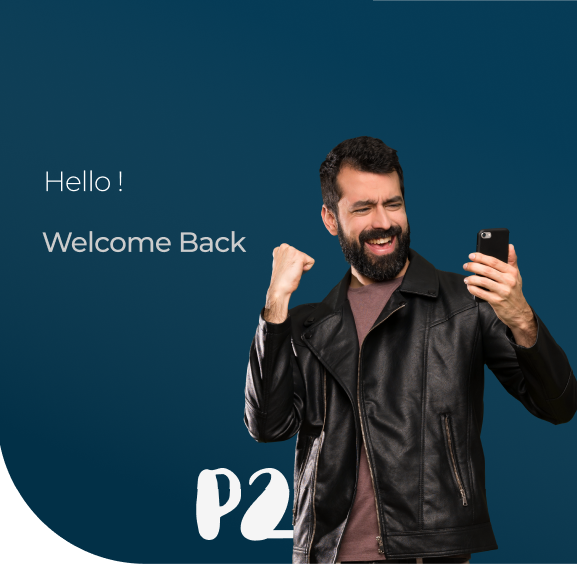
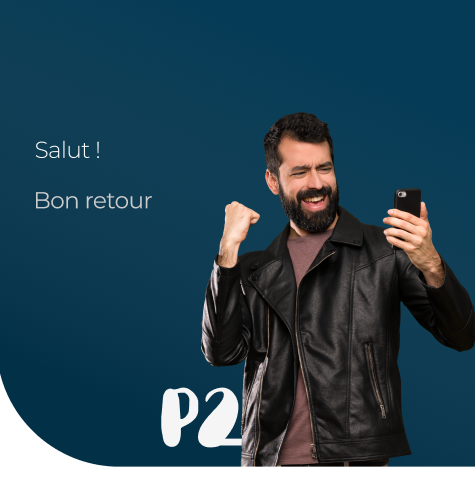
init

diff --git a/mobile/app/(auth)/signup.jsx b/mobile/app/(auth)/signup.jsx
@@ -35,10 +35,10 @@ export default function Signup() {
       behavior={Platform.OS === 'ios' ? 'padding' : 'height'}
     >
     <ScrollView
-     style={styles.container}               // style pour le conteneur ScrollView
-     contentContainerStyle={{               // style pour le contenu scrollable à l'intérieur
-     justifyContent: 'center',            // tu mets ici justifyContent
-     flexGrow: 1                         // important pour que ça prenne toute la hauteur dispo
+     style={styles.container}               
+     contentContainerStyle={{              
+     justifyContent: 'center',            
+     flexGrow: 1                         
     }}
     >
 
@@ -62,14 +62,14 @@ export default function Signup() {
 
     <View style={styles.infoBox}>
       <Text style={styles.infoText}>
-        To create an influencer account, you will be required to connect your Instagram account.
+        Pour créer un compte influenceur, vous devrez connecter votre compte Instagram.
       </Text>
     </View>
 
     <TouchableOpacity onPress={() => router.back()}>
     <Text style={styles.loginText}>
-    Already have an account ? 
-    <Text style={styles.loginLink}>Login</Text>
+    Vous avez déjà un compte ? 
+    <Text style={styles.loginLink}>Se connecter</Text>
     
   </Text>
 </TouchableOpacity>
@@ -84,7 +84,7 @@ export default function Signup() {
               resizeMode="contain"
             />
            
-             <Text style={styles.subtitle}>Join our exclusive community!</Text>
+             <Text style={styles.subtitle}>Rejoignez notre communauté exclusive!</Text>
             <View style= {styles.card}>
              <View style={styles.header}>
                
@@ -93,7 +93,7 @@ export default function Signup() {
               <View style={styles.formContainer}>
                 {/* FIRSTNAME INPUT */}
                 <View style={styles.inputGroup}>
-                  <Text style={styles.label}>First Name</Text>
+                  <Text style={styles.label}>Prénom</Text>
                   <View style={styles.inputContainer}>
                     <TextInput
                       style={styles.input}
@@ -108,7 +108,7 @@ export default function Signup() {
 
                 {/* LASTNAME INPUT */}
                 <View style={styles.inputGroup}>
-                  <Text style={styles.label}>Last Name</Text>
+                  <Text style={styles.label}>Nom</Text>
                   <View style={styles.inputContainer}>
                     <TextInput
                       style={styles.input}
@@ -123,7 +123,7 @@ export default function Signup() {
 
                 {/* USERNAME INPUT */}
                 <View style={styles.inputGroup}>
-                  <Text style={styles.label}>Username</Text>
+                  <Text style={styles.label}>Identifiant</Text>
                   <View style={styles.inputContainer}>
                     <Ionicons
                       name="person-outline"
@@ -166,7 +166,7 @@ export default function Signup() {
 
                 {/* PHONE NUMBER INPUT */}
                 <View style={styles.inputGroup}>
-                  <Text style={styles.label}>Phone Number</Text>
+                  <Text style={styles.label}>Numéro de téléphone</Text>
                   <View style={styles.inputContainer}>
                     <Ionicons
                       name="call-outline"
@@ -187,7 +187,7 @@ export default function Signup() {
 
                 {/* PASSWORD INPUT */}
                 <View style={styles.inputGroup}>
-                  <Text style={styles.label}>Password</Text>
+                  <Text style={styles.label}>Mot de passe</Text>
                   <View style={styles.inputContainer}>
                     <Ionicons
                       name="lock-closed-outline"
@@ -225,15 +225,15 @@ export default function Signup() {
                   {isLoading ? (
                     <ActivityIndicator color="#fff" />
                   ) : (
-                    <Text style={styles.buttonText}>Sign Up</Text>
+                    <Text style={styles.buttonText}>S’inscrire</Text>
                   )}
                 </TouchableOpacity>
 
                 {/* Footer */}
                 <View style={styles.footer}>
-                  <Text style={styles.footerText}>Already have an account?</Text>
+                  <Text style={styles.footerText}>Vous avez déjà un compte?</Text>
                   <TouchableOpacity onPress={() => router.back()}>
-                    <Text style={styles.link}>Login</Text>
+                    <Text style={styles.link}>Se connecter</Text>
                   </TouchableOpacity>
                 </View>
             </View> 

diff --git a/mobile/app/(auth)/index.jsx b/mobile/app/(auth)/index.jsx
@@ -1,11 +1,11 @@
-import { Alert, View, Text, Image, TextInput, TouchableOpacity, ActivityIndicator, KeyboardAvoidingView, Platform } from "react-native";
+import { Alert, View, Text, Image, TextInput, TouchableOpacity, ActivityIndicator, KeyboardAvoidingView, Platform, ScrollView } from "react-native";
 import { Link } from "expo-router";
 import styles from "../../assets/styles/login.styles";
 import { useState } from "react";
 import { Ionicons } from "@expo/vector-icons"
 import COLORS from "../../constants/colors";
 import { useAuthStore } from "../../store/authStore";
-
+import SafeScreen from "../../components/SafeScreen";
 
 export default function Login() {
     const [email, setEmail] = useState("");
@@ -23,11 +23,15 @@ export default function Login() {
     if (isCheckingAuth) return null;
 
     return (
-    <KeyboardAvoidingView
+      <KeyboardAvoidingView
        style={{flex:1}}
        behavior={Platform.OS === "ios" ? "padding" : "height"}
-
     >
+       <ScrollView
+            contentContainerStyle={{ flexGrow: 1 }}
+            keyboardShouldPersistTaps="handled"
+            showsVerticalScrollIndicator={false}
+          >
       <View style={styles.topIllustration}>
             <Image 
               source={require("../../assets/images/login.png")}
@@ -53,7 +57,7 @@ export default function Login() {
                     />
                     <TextInput 
                       style={styles.input}
-                      placeholder="Enter your email"
+                      placeholder="Entrez votre email"
                       placeholderTextColor={COLORS.placeholderText}
                       value={email}
                       onChangeText={setEmail}
@@ -76,7 +80,7 @@ export default function Login() {
                    />
                    <TextInput 
                       style={styles.input}
-                      placeholder="Enter your password"
+                      placeholder="Entrez votre mot de passe"
                       placeholderTextColor={COLORS.placeholderText}
                       value={password}
                       onChangeText={setPassword}
@@ -103,16 +107,16 @@ export default function Login() {
                 {isLoading ? (
                     <ActivityIndicator color="#fff" />
                 ) : (
-                    <Text style={styles.buttonText}>Login</Text>
+                    <Text style={styles.buttonText}>Se connecter</Text>
                 )}
              </TouchableOpacity>
             
             {/* Footer */}
             <View style={styles.footer}>
-                <Text style={styles.footerText}>Don't have an account?</Text>
+                <Text style={styles.footerText}>Vous n’avez pas de compte ?</Text>
                 <Link href="/signup" asChild>
                  <TouchableOpacity>
-                    <Text style={styles.link}>Sign up</Text>
+                    <Text style={styles.link}>S’inscrire</Text>
                  </TouchableOpacity>
                 </Link>
             </View>
@@ -120,6 +124,8 @@ export default function Login() {
            </View>
            </View>
         </View>
+        </ScrollView>
         </KeyboardAvoidingView>
+    
     );
 }
